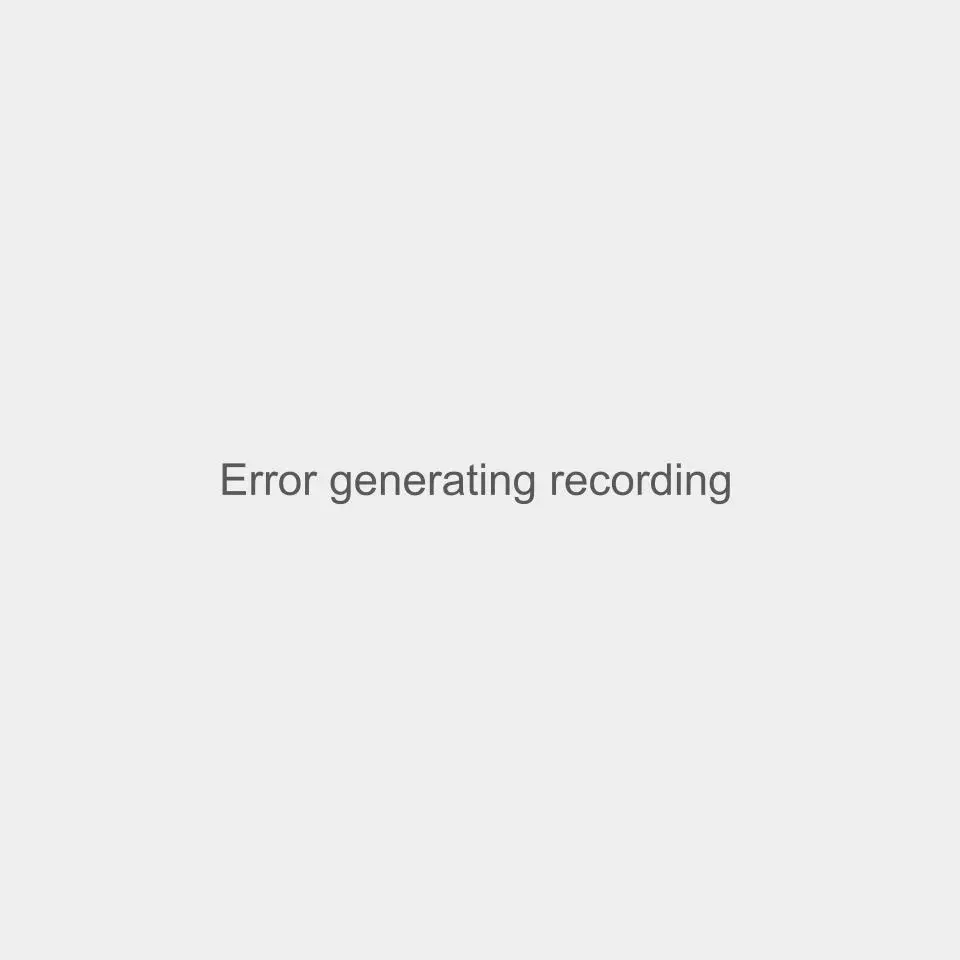
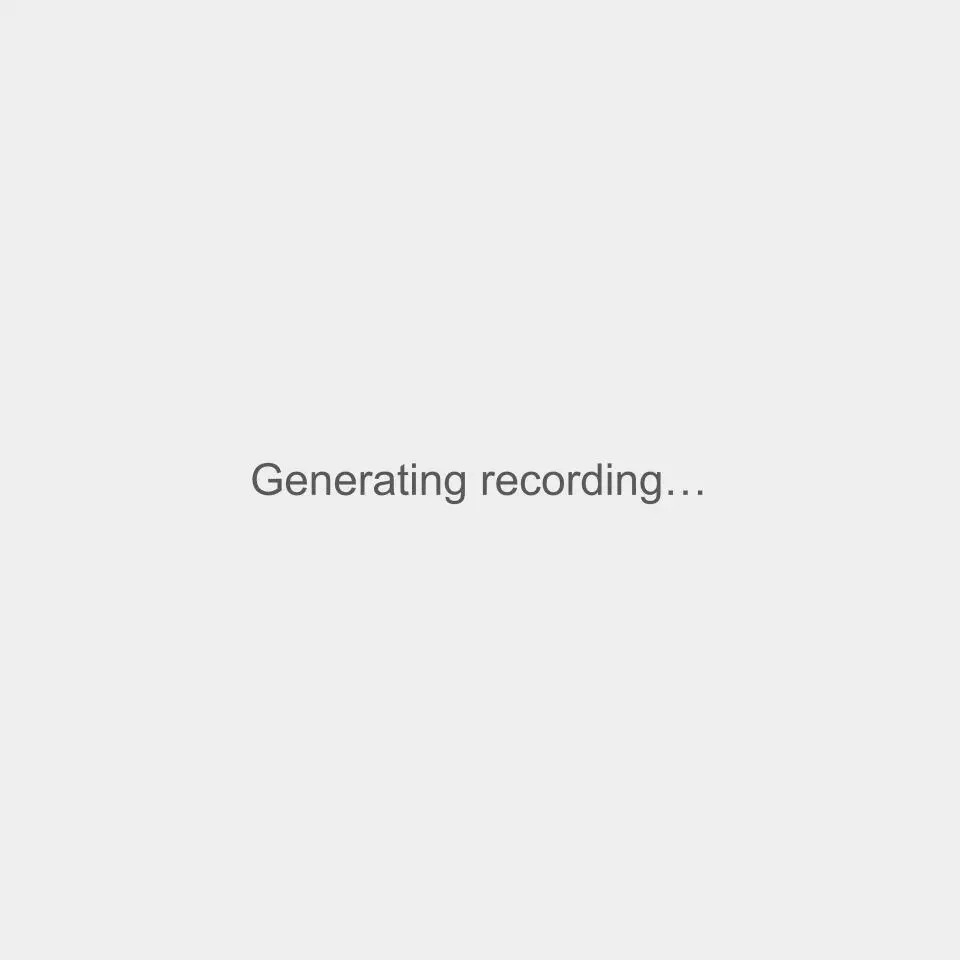
fix: update demo recording webp asset and raw GitHub URL references

Changed region(s): [[0.2188, 0.4688, 0.7812, 0.5312]]

diff --git a/README.md b/README.md
@@ -8,13 +8,17 @@
 [![Tailwind CSS](https://img.shields.io/badge/Tailwind-3.4-sky.svg)](https://tailwindcss.com/)
 [![Vite](https://img.shields.io/badge/Vite-6.0-purple.svg)](https://vitejs.dev/)
 
-![GlobalYield Analytics Platform](./public/hero_banner.png)
+<p center>
+  <img src="https://raw.githubusercontent.com/greatiyke/GlobalYieldAnalytics/main/public/hero_banner.png" alt="GlobalYield Analytics Platform" width="100%" />
+</p>
 
 ---
 
-## 📸 Application Demo Recording
+## 📸 Application Demo & Walkthrough
 
-![Cross-Border Real Estate Model Live Demo](./public/demo.webp)
+<p center>
+  <img src="https://raw.githubusercontent.com/greatiyke/GlobalYieldAnalytics/main/public/demo.webp" alt="Cross-Border Real Estate Model Live Demo" width="100%" />
+</p>
 
 ---
 
